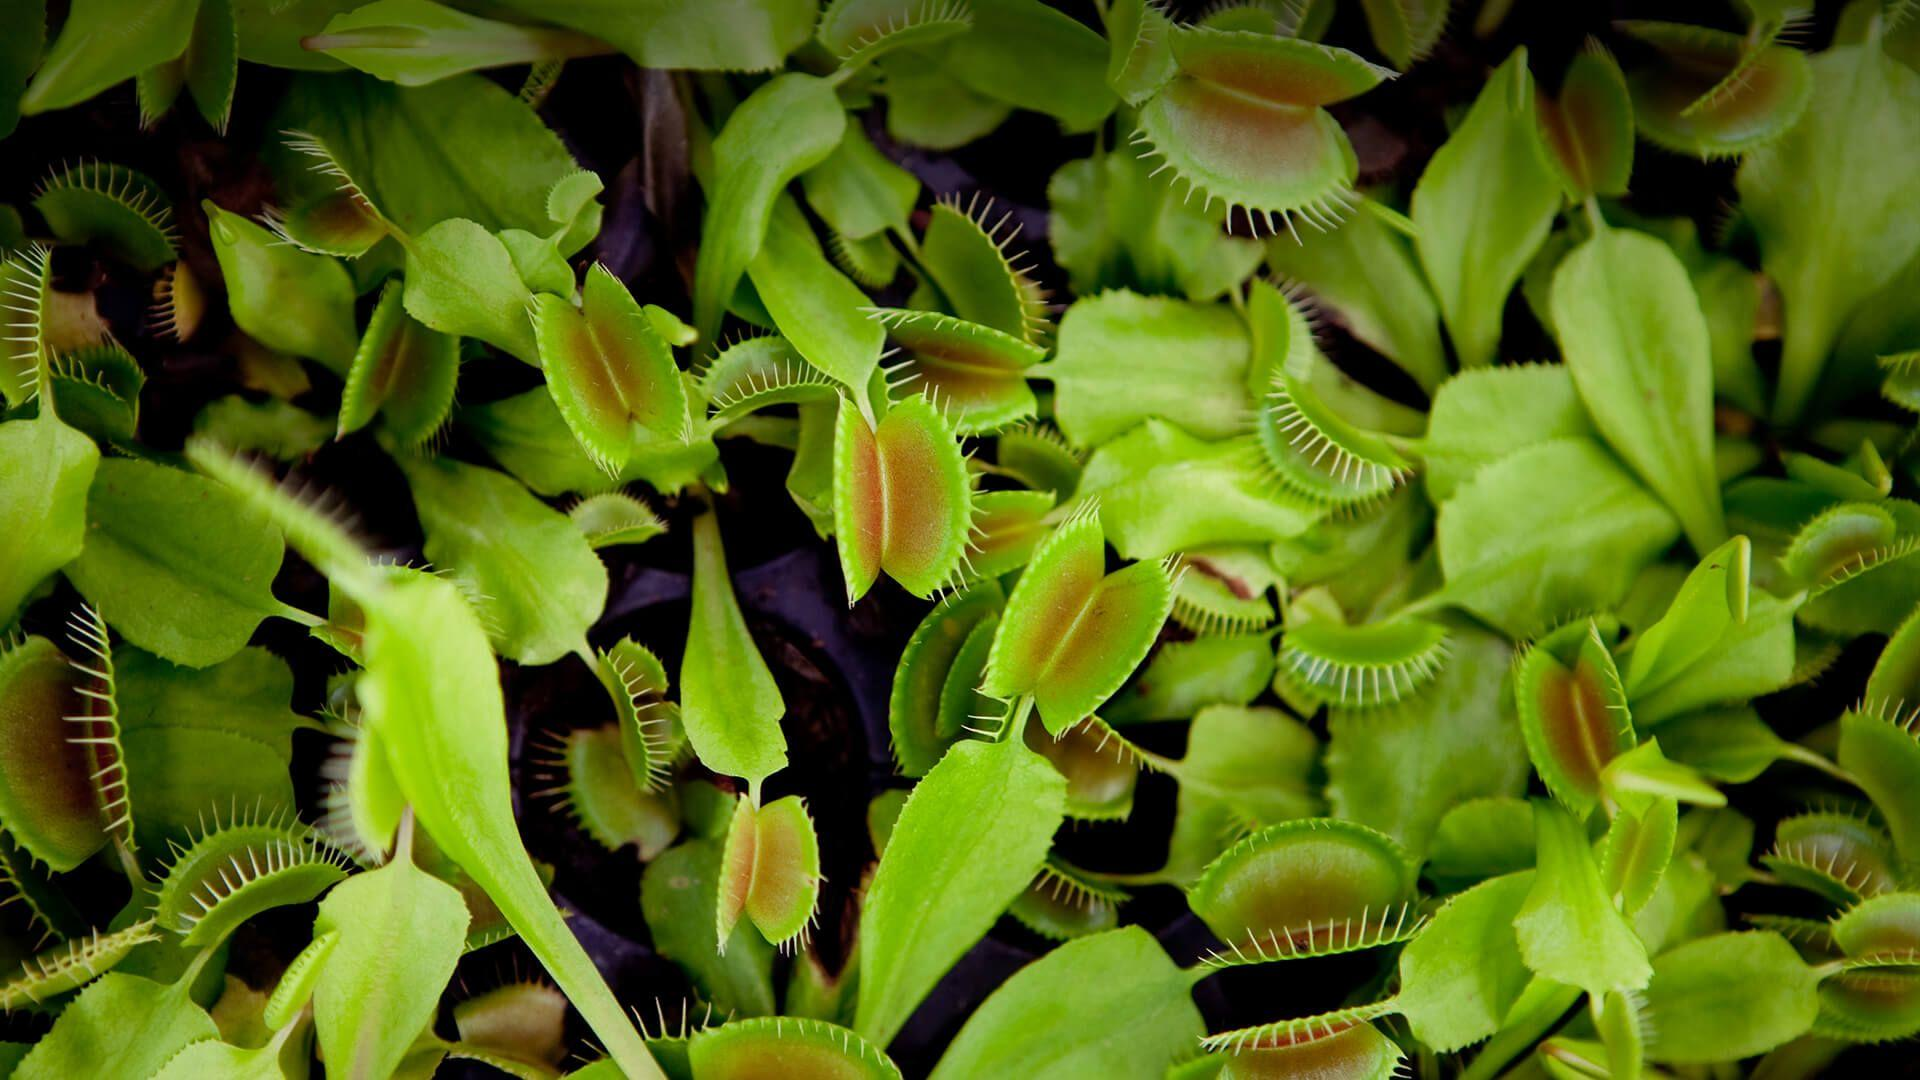
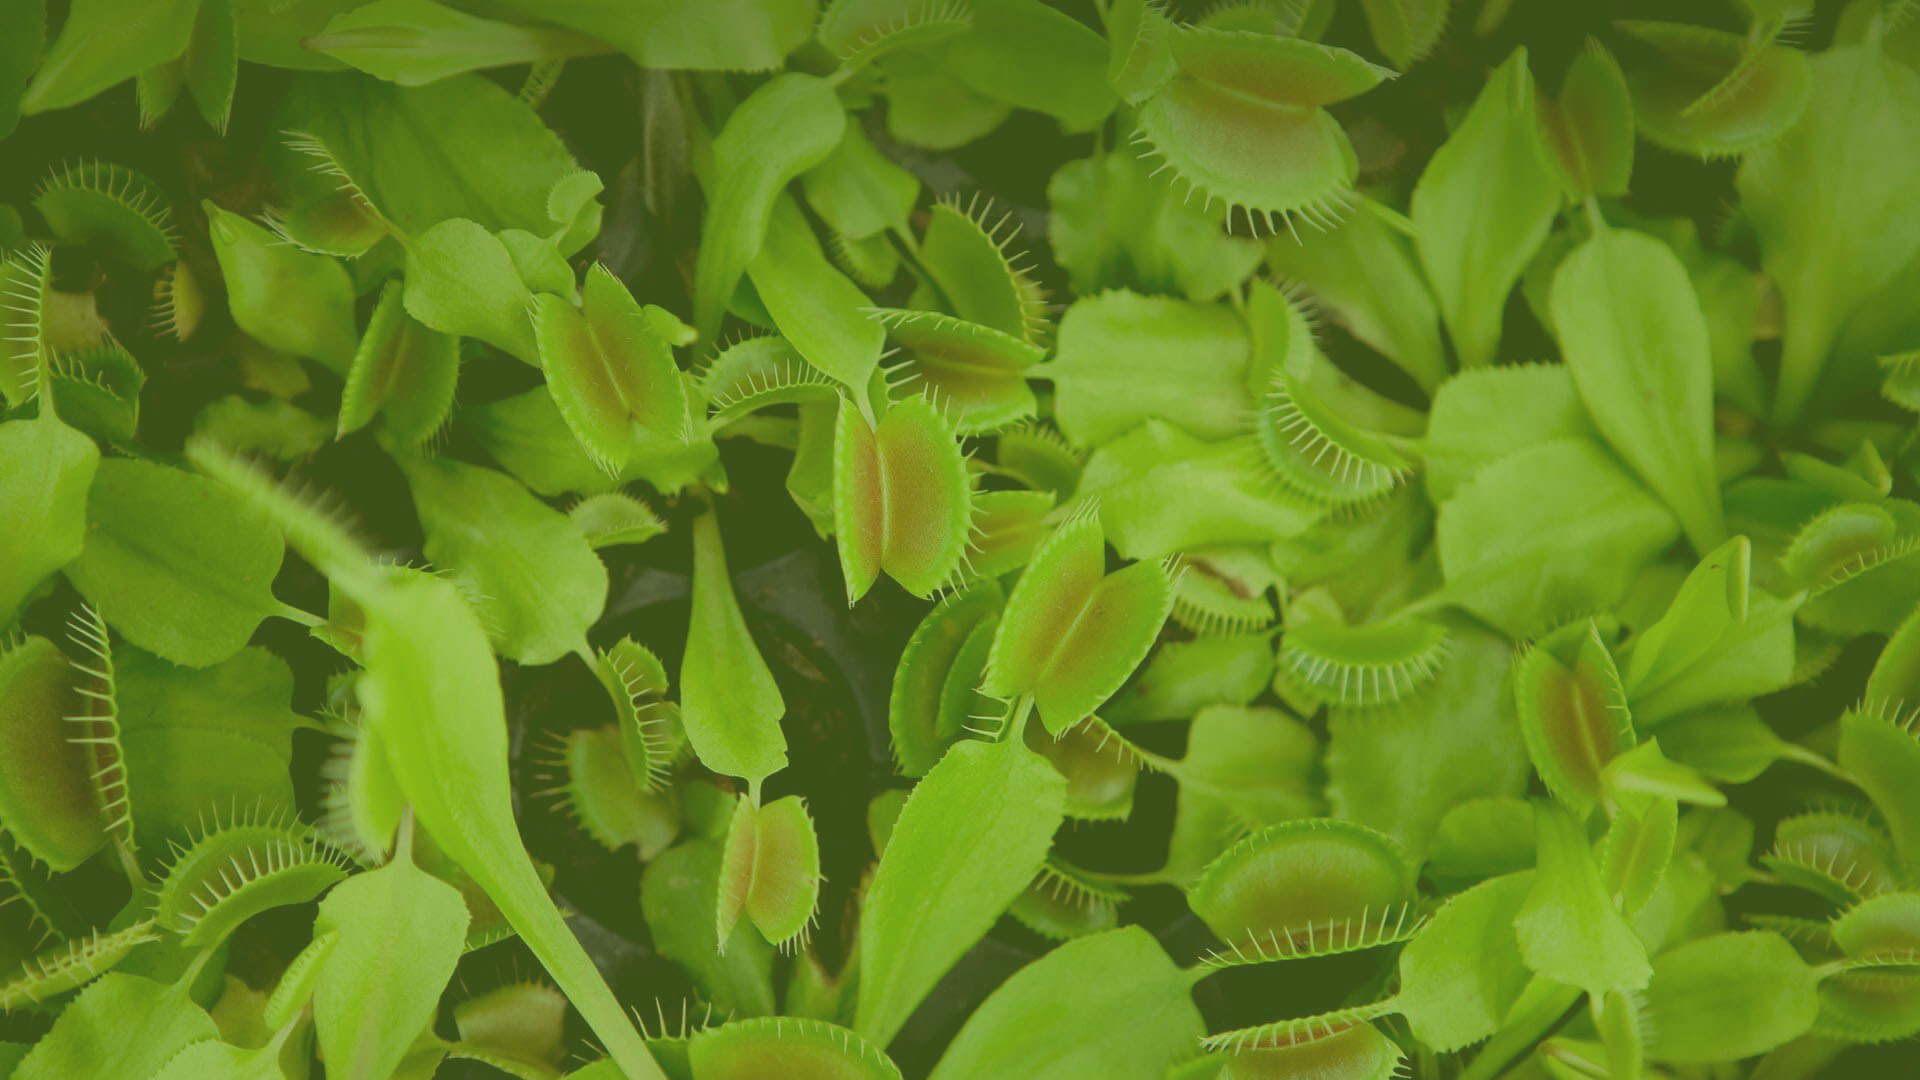
Finish code

diff --git a/src/App.jsx b/src/App.jsx
@@ -3,53 +3,53 @@ import "./App.css"
 
 const cards = [
   {
-    question: "If a plant develops yellow spots in the middle of leaves, what could cause it?",
-    answer: "Overwatering or fungal infection.",
+    question: "What nutritious chemical do carnivorous plants get from their prey?",
+    answer: "Nitrogen",
     color: "#F7E27D"
   },
   {
-    question: "What process do plants use to convert sunlight into energy?",
-    answer: "Photosynthesis.",
+    question: "What is a carnivorous plants main source of energy?",
+    answer: "Photosynthesis",
     color: "#BDE5A8"
   },
   {
-    question: "Which part of the plant absorbs water and nutrients?",
-    answer: "Roots.",
+    question: "What do temperate carnivorous plants such as American Pitchers and Flytraps do during the winter months?",
+    answer: "They go into Winter dormancy",
     color: "#A8D8EA"
   },
   {
-    question: "What gas do plants absorb from the air?",
-    answer: "Carbon dioxide.",
+    question: "What is the purpose of the lid that is on American pitcher plants and Nepenthes pitchers?",
+    answer: "To keep rainwater out",
     color: "#F5B7B1"
   },
   {
-    question: "Which plant structure makes seeds?",
-    answer: "Flowers.",
+    question: "What do Flytrap seeds look like?",
+    answer: "Black teardrops",
     color: "#D7BDE2"
   },
   {
-    question: "Why do plant leaves turn yellow?",
-    answer: "Often due to nutrient deficiency or too much water.",
+    question: "Do Nepenthes pitchers produce their own carnivorous fluid?",
+    answer: "Yes, each pitcher on a healthy plant is 1/4 filled with fluid",
     color: "#FAD7A0"
   },
   {
-    question: "What nutrient helps plants grow strong stems?",
-    answer: "Nitrogen.",
+    question: "Why did plants evolve to be carnivorous?",
+    answer: "To make up for the lack of nutrients in their soil",
     color: "#AED6F1"
   },
   {
-    question: "What is the waxy coating on leaves called?",
-    answer: "The cuticle.",
+    question: "Where does a Flytrap store all of its energy?",
+    answer: "The rhizome",
     color: "#ABEBC6"
   },
   {
-    question: "What part of a plant transports water upward?",
-    answer: "Xylem.",
+    question: "Do all carnivorous pitcher plants produce their own fluid?",
+    answer: "No, some species such as the Sarracenia Purpurea or Heliamphora get almost all of their fluid from rainfall",
     color: "#F9E79F"
   },
   {
-    question: "What pigment makes plants green?",
-    answer: "Chlorophyll.",
+    question: "What carnivorous plant ancestor did the Venus Flytrap evolve from?",
+    answer: "The sundew",
     color: "#82E0AA"
   }
 ]
@@ -78,12 +78,8 @@ function App() {
   const [flipped, setFlipped] = useState(false)
 
   const nextCard = () => {
-    let randomIndex
-  do {
-    randomIndex = Math.floor(Math.random() * cards.length)
-  } while (randomIndex === index)
-  setIndex(randomIndex)
-  setFlipped(false)
+    setIndex((index + 1) % cards.length)
+    setFlipped(false)
   }
 
   const prevCard = () => {
@@ -109,12 +105,10 @@ function App() {
         index={index}
         total={cards.length}
       />
-
       <div className="arrow-container">
         <button className="arrow" onClick={prevCard}>←</button>
         <button className="arrow" onClick={nextCard}>→</button>
       </div>
-
     </div>
   )
 }

diff --git a/src/App.css b/src/App.css
@@ -1,5 +1,10 @@
 .app {
+  display: flex;
+  flex-direction: column;
+  justify-content: center;
+  align-items: center;
   text-align: center;
+  min-height: 100vh;
   font-family: Arial, Helvetica, sans-serif;
 }
 
@@ -15,7 +20,6 @@
   font-weight: bold;
   text-align: center;
   border-radius: 10px;
-  /* semi-transparent */
   backdrop-filter: blur(6px);
   background-color: rgba(255,255,255,0.65);
   box-shadow: 0px 6px 10px rgba(0,0,0,0.25);
@@ -68,4 +72,16 @@
 
 .title {
   color: white;
+}
+
+h1 {
+  font-size: 70px;
+}
+
+h3 {
+  font-size: 35px;
+}
+
+p {
+  font-size: 35px;
 }

diff --git a/src/index.css b/src/index.css
@@ -2,6 +2,10 @@
 body {
   margin: 0;
   background-image: url("./assets/flytraps.jpg");
+  background-size: cover;
+  background-position: center;
+  background-repeat: no-repeat;
+  min-height: 100vh;
 }
 
 h1 {
